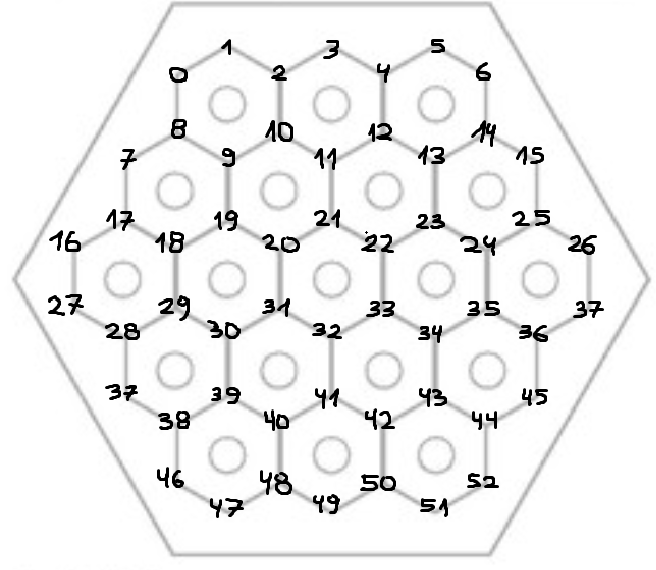
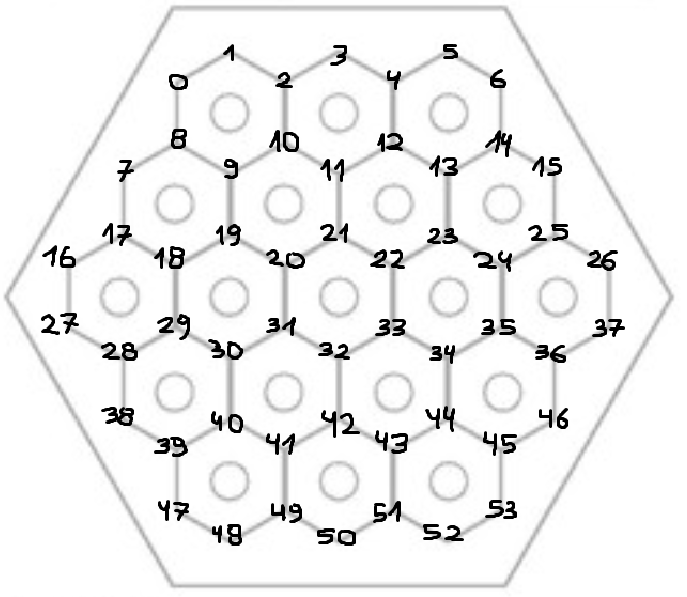
[PRMS] Updated params and numbering

Changed region(s): [[0.0, 0.0, 1.0, 1.0]]

diff --git a/params/tiles2nodes_adjacency_map.py b/params/tiles2nodes_adjacency_map.py
@@ -1,21 +1,21 @@
-TILE_TO_NODES = {
-    0:  [0, 1, 2, 8, 9, 10],
-    1:  [2, 3, 4, 10, 11, 12],
-    2:  [4, 5, 6, 13, 14],
-    3:  [7, 8, 9, 17, 18, 19],
-    4:  [9, 10, 11, 19, 20, 21],
+TILES_TO_NODES = {
+    0:  [ 0,  1,  2,  8,  9, 10],
+    1:  [ 2,  3,  4, 10, 11, 12],
+    2:  [ 4,  5,  6, 12, 13, 14],
+    3:  [ 7,  8,  9, 17, 18, 19],
+    4:  [ 9, 10, 11, 19, 20, 21],
     5:  [11, 12, 13, 21, 22, 23],
     6:  [13, 14, 15, 23, 24, 25],
-    7:  [16, 17, 27, 28, 29],
-    8:  [18, 19, 29, 30, 31],
-    9:  [20, 21, 31, 32, 33],
-    10: [22, 23, 33, 34, 35],
+    7:  [16, 17, 18, 27, 28, 29],
+    8:  [18, 19, 20, 29, 30, 31],
+    9:  [20, 21, 22, 31, 32, 33],
+    10: [22, 23, 24, 33, 34, 35],
     11: [24, 25, 26, 35, 36, 37],
     12: [28, 29, 30, 38, 39, 40],
     13: [30, 31, 32, 40, 41, 42],
     14: [32, 33, 34, 42, 43, 44],
     15: [34, 35, 36, 44, 45, 46],
-    16: [39, 40, 47, 48, 49],
-    17: [41, 42, 49, 50, 51],
-    18: [43, 44, 51, 52, 53],
+    16: [39, 40, 41, 47, 48, 49],
+    17: [41, 42, 43, 49, 50, 51],
+    18: [43, 44, 45, 51, 52, 53],
 }

diff --git a/params/catan_constants.py b/params/catan_constants.py
@@ -3,7 +3,7 @@ N_TILES = 19           # Total land tiles (including desert)
 N_NODES = 54           # Intersections (settlements/cities)
 N_EDGES = 72           # Paths (roads)
 
-N_ADJACENT_TILES = 12
+N_ADJACENT_TILES = 3
 N_ADJACENT_EDGES = 6
 N_ADJACENT_NODES = 6
 
